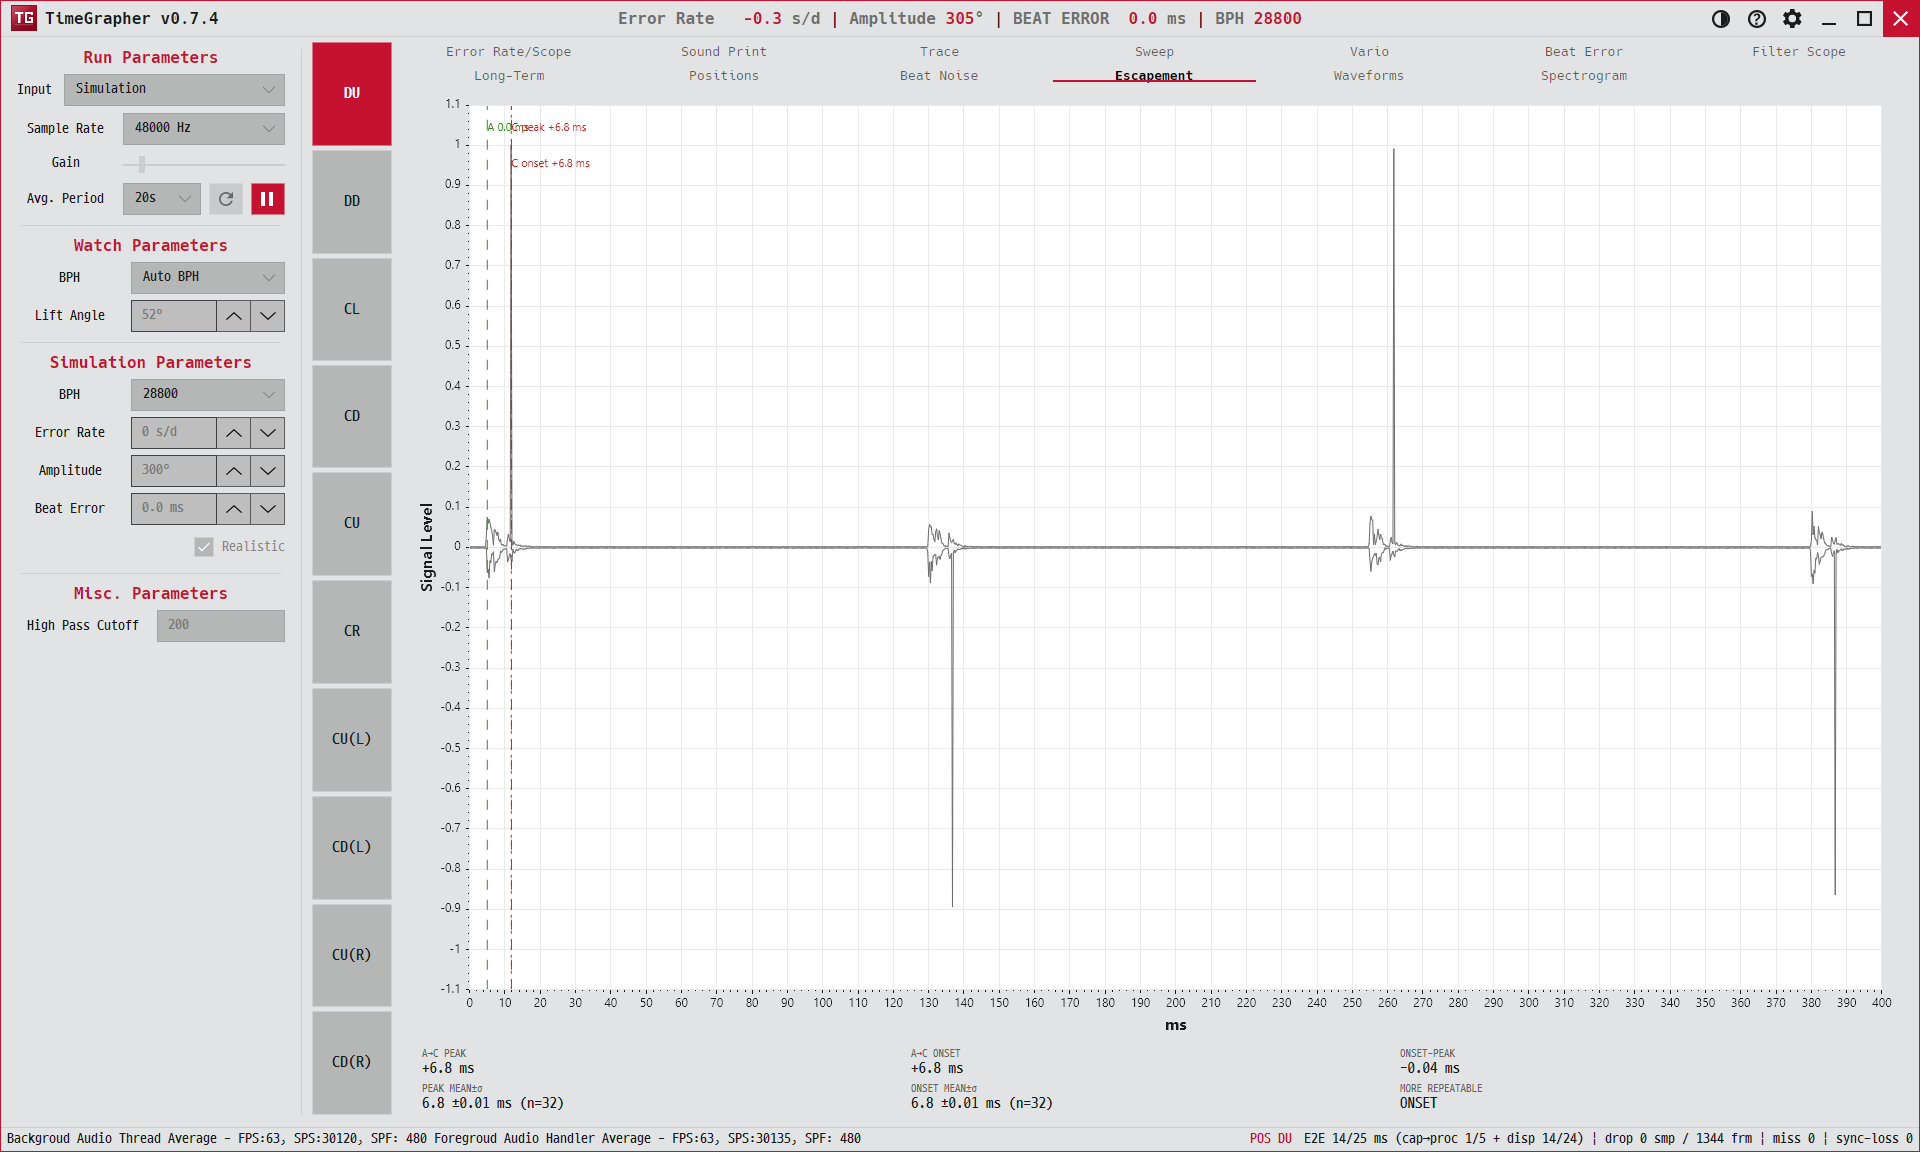
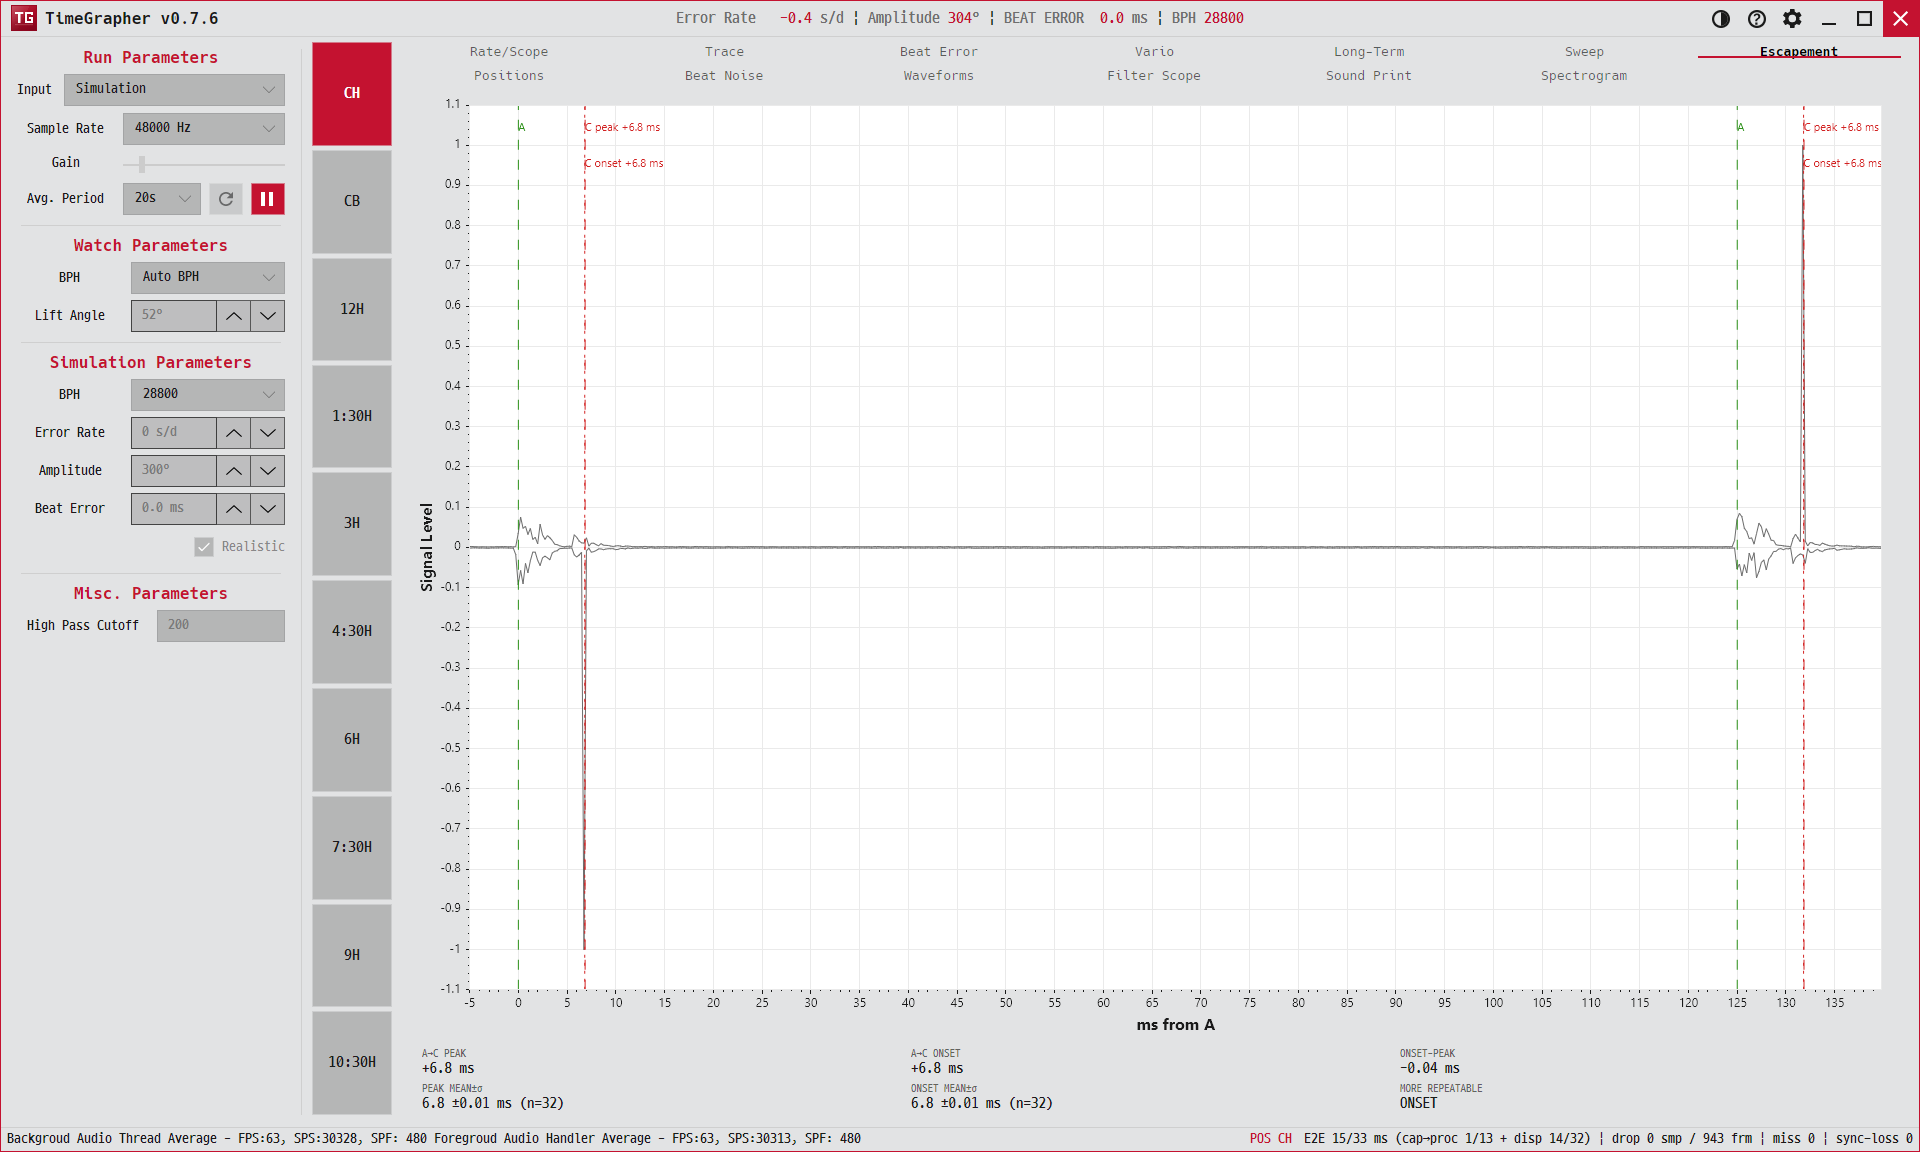
docs(manual): update Escapement page for the tic-toc oscillation view
[en] Update the Escapement manual page's figure caption and X-axis description
to the tic-A-relative, tic->toc-zoomed view, and refresh tab-escapement.png to
match the new two-beat display.

[ko] Escapement 매뉴얼 페이지의 그림 설명과 X축 설명을 tic A 기준·tic->toc
확대 뷰로 갱신하고, tab-escapement.png을 새 두 비트 표시에 맞게 재생성했다.

diff --git a/manual/graphs/escapement.html b/manual/graphs/escapement.html
@@ -23,8 +23,8 @@
 
       <figure>
         <img data-shot src="../img/tab-escapement.png" alt="Escapement tab">
-        <figcaption class="ko">그림 1. 최신 비트 파형 + A·C 마커, 아래 A→C 간격 통계와 "더 반복적인" 기준 판정.</figcaption>
-        <figcaption class="en">Fig 1. Latest beat waveform + A/C markers; A→C interval stats and the "more repeatable" verdict below.</figcaption>
+        <figcaption class="ko">그림 1. 최신 tic→toc 한 진동(두 비트) 파형 + 각 비트의 A·C 마커, 아래 A→C 간격 통계와 "더 반복적인" 기준 판정.</figcaption>
+        <figcaption class="en">Fig 1. Latest tic→toc oscillation (two beats) + each beat's A/C markers; A→C interval stats and the "more repeatable" verdict below.</figcaption>
       </figure>
 
       <h2><span class="ko">용도</span><span class="sep"> · </span><span class="en">Purpose</span></h2>
@@ -33,7 +33,7 @@
 
       <h2><span class="ko">무엇이 보이나</span><span class="sep"> · </span><span class="en">What's shown</span></h2>
       <dl class="kv">
-        <dt><span class="ko">X축</span><span class="en">X axis</span></dt><dd>ms — <span class="ko">비트 창.</span><span class="en">the beat window.</span></dd>
+        <dt><span class="ko">X축</span><span class="en">X axis</span></dt><dd>ms — <span class="ko">tic A 기준(tic A=0)으로 tic→toc 한 진동을 실제 간격대로 확대(항상 tic이 먼저).</span><span class="en">tic-A-relative (tic A = 0), zoomed to one tic→toc oscillation at its real spacing (tic always first).</span></dd>
         <dt><span class="ko">Y축</span><span class="en">Y axis</span></dt><dd>Signal Level — <span class="ko">최신 비트의 양극 파형(가능할 때) 또는 정류 엔벨로프.</span><span class="en">the latest beat's bipolar waveform (when available) or rectified envelope.</span></dd>
         <dt><span class="ko">마커</span><span class="en">Markers</span></dt><dd><span class="ko">A(초록 점선), C 피크(빨강 점선), C 온셋(빨강 점). 라벨 <code>C peak A→C: X.X ms</code> 등.</span><span class="en">A (green dashed), C peak (red dashed), C onset (red dotted). Labels like <code>C peak A→C: X.X ms</code>.</span></dd>
       </dl>